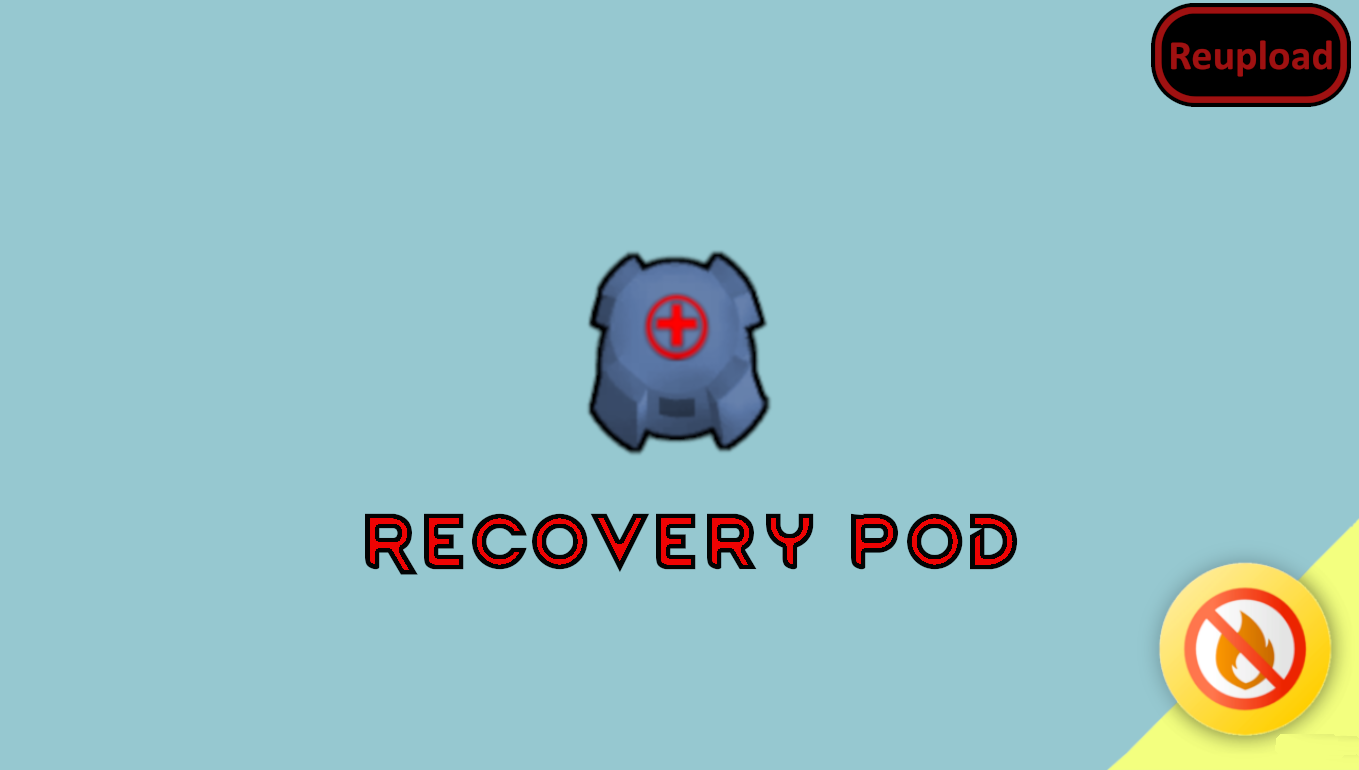
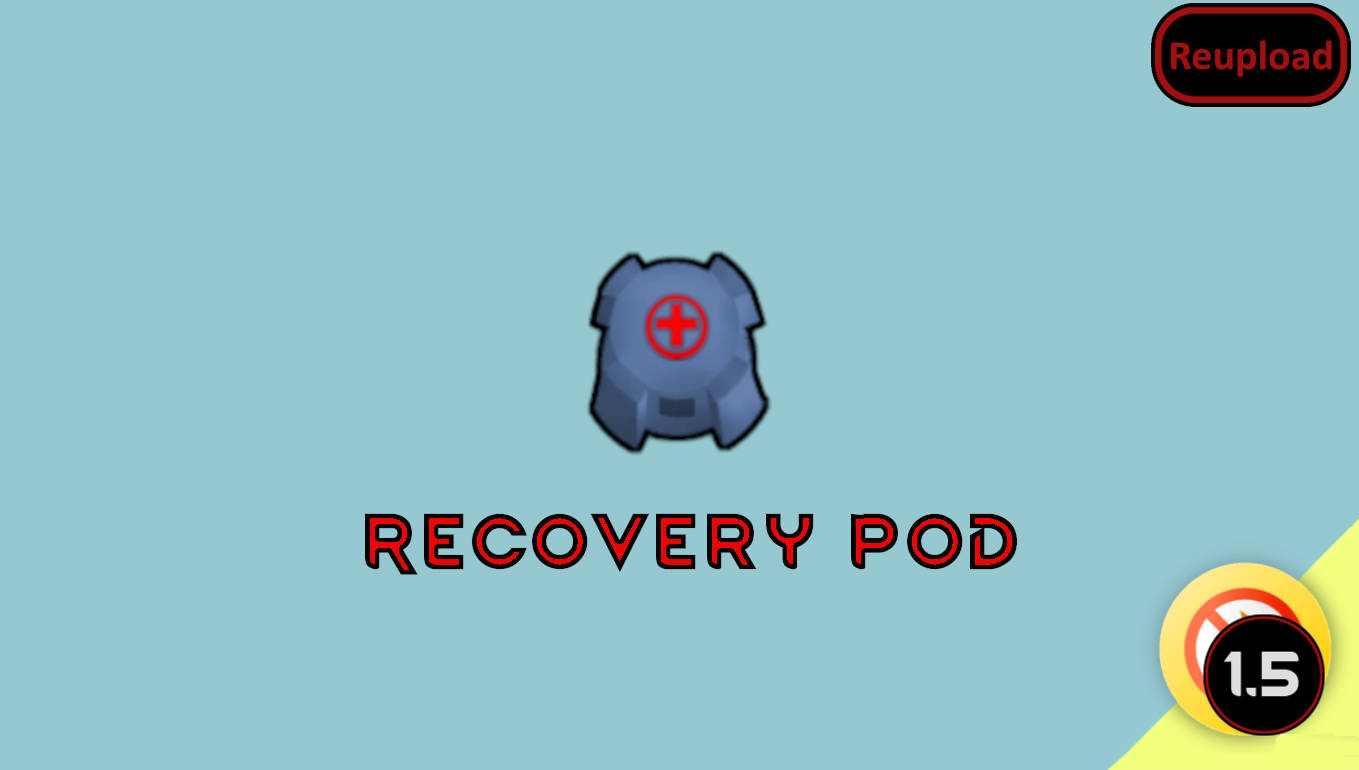
Mod updated for 1.5 and passed autotests

Changed region(s): [[0.8653, 0.7792, 0.989, 0.9662]]

diff --git a/README.md b/README.md
@@ -41,11 +41,13 @@ Japanese translation - Proxyer
 
 -  See if the the error persists if you just have this mod and its requirements active.
 -  If not, try adding your other mods until it happens again.
--  Post your error-log using https://steamcommunity.com/workshop/filedetails/?id=818773962]HugsLib and command Ctrl+F12
+-  Post your error-log using https://steamcommunity.com/workshop/filedetails/?id=818773962]HugsLib or the standalone https://steamcommunity.com/sharedfiles/filedetails/?id=2873415404]Uploader and command Ctrl+F12
 -  For best support, please use the Discord-channel for error-reporting.
 -  Do not report errors by making a discussion-thread, I get no notification of that.
 -  If you have the solution for a problem, please post it to the GitHub repository.
+-  Use https://github.com/RimSort/RimSort/releases/latest]RimSort to sort your mods
 
 
 
+https://steamcommunity.com/sharedfiles/filedetails/changelog/2195978222]![Image](https://img.shields.io/github/v/release/emipa606/RecoveryPod?label=latest%20version&style=plastic&color=9f1111&labelColor=black)
 
